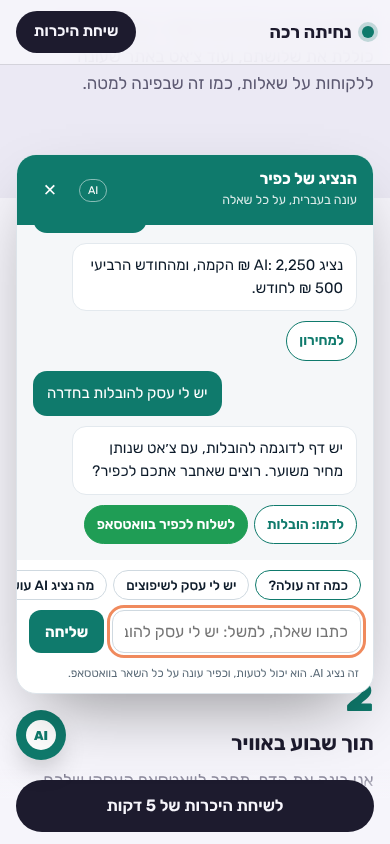
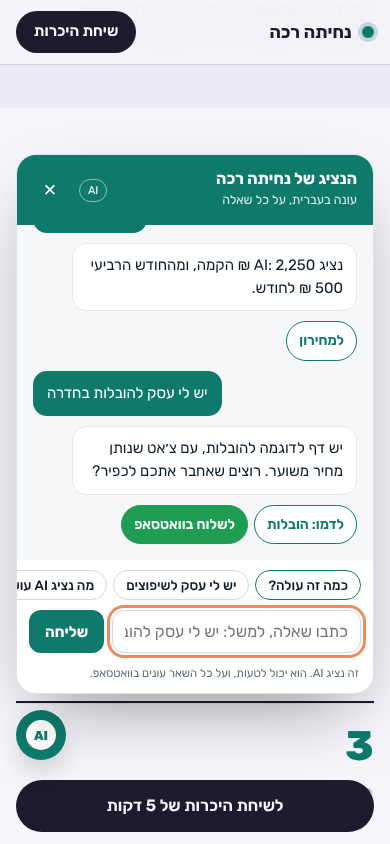
Speak as the brand: remove Kfir's name and first-person voice from the site
- the demo bars, the AI chat (UI, scripted answers and the system
  prompt), the home page, /all/ and the WhatsApp prefills no longer name
  a person; the chat is told never to name one
- the studio's first-person lines become "אנחנו" (wording otherwise
  unchanged); fictional demo businesses still speak as their owners
- CLAUDE.md: a house rule so it stays that way

Claude-Session: https://claude.ai/code/session_015xjAbCv1XzzFKiqgGekPPt

diff --git a/demos/index.html b/demos/index.html
@@ -327,7 +327,7 @@ img, svg { display: block; }
       <div class="sec-head reveal">
         <p class="kicker">מה מקבלים</p>
         <h2 id="t-what">אתר, מענה אוטומטי בוואטסאפ, ומעקב אחרי כל פנייה.</h2>
-        <p class="sec-sub">לקוח פונה, מקבל תשובה מיד, ואתם יודעים בדיוק למי לחזור. אני מקים ומחבר הכול, ואתם ממשיכים לעבוד.</p>
+        <p class="sec-sub">לקוח פונה, מקבל תשובה מיד, ואתם יודעים בדיוק למי לחזור. אנחנו מקימים ומחברים הכול, ואתם ממשיכים לעבוד.</p>
       </div>
       <ol class="parts">
         <li class="part reveal">
@@ -360,8 +360,8 @@ img, svg { display: block; }
         <h2 id="t-how">משיחה של 5 דקות ועד הפנייה הראשונה.</h2>
       </div>
       <ol class="steps">
-        <li class="step reveal"><span class="step-n">1</span><h3>שיחה של 5 דקות</h3><p>מספרים לי על העסק, על הלקוחות ועל השאלות שחוזרות.</p></li>
-        <li class="step reveal"><span class="step-n">2</span><h3>תוך שבוע באוויר</h3><p>אני בונה את הדף, מחבר לוואטסאפ העסקי שלכם ובודק איתכם מהטלפון. נציג AI: עד שבועיים.</p></li>
+        <li class="step reveal"><span class="step-n">1</span><h3>שיחה של 5 דקות</h3><p>מספרים לנו על העסק, על הלקוחות ועל השאלות שחוזרות.</p></li>
+        <li class="step reveal"><span class="step-n">2</span><h3>תוך שבוע באוויר</h3><p>אנחנו בונים את הדף, מחברים לוואטסאפ העסקי שלכם ובודקים איתכם מהטלפון. נציג AI: עד שבועיים.</p></li>
         <li class="step reveal"><span class="step-n">3</span><h3>מעקב כל חודש</h3><p>דוח קצר: כמה פניות נכנסו ומאיפה. שינוי אחד בחודש כלול.</p></li>
       </ol>
       <p class="sec-cta reveal"><a class="btn" href="#contact">לשיחת היכרות של 5 דקות</a></p>
@@ -441,7 +441,7 @@ img, svg { display: block; }
         <h2 id="t-faq">מה ששואלים אותי הכי הרבה.</h2>
       </div>
       <div class="faq reveal">
-        <details><summary>צריך להבין בטכנולוגיה?</summary><p>לא. אתם עונים על כמה שאלות בשיחה, ואני מקים, מחבר ובודק הכול.</p></details>
+        <details><summary>צריך להבין בטכנולוגיה?</summary><p>לא. אתם עונים על כמה שאלות בשיחה, ואנחנו מקימים, מחברים ובודקים הכול.</p></details>
         <details><summary>יש התחייבות?</summary><p>לא. מבטלים בהודעה של 30 יום מראש. מי שבחר בתשלומים ומבטל לפני התשלום השלישי משלים את יתרת ההקמה.</p></details>
         <details><summary>על שם מי הדומיין?</summary><p>על שמכם. הדומיין והאחסון רשומים אצלכם, והדף נשאר שלכם.</p></details>
         <details><summary>ההודעות יוצאות מהמספר שלי?</summary><p>כן. מהמספר העסקי שלכם, דרך החיבור הרשמי של WhatsApp. את נוסח ההודעה כותבים יחד.</p></details>
@@ -455,7 +455,7 @@ img, svg { display: block; }
       <div class="reveal">
         <p class="kicker">שיחת היכרות</p>
         <h2 id="t-contact">רוצים לראות איך זה ייראה אצלכם?</h2>
-        <p class="sec-sub">משאירים שלושה פרטים, והם מגיעים אליי בוואטסאפ. אחזור אליכם לשיחה של 5 דקות, בלי התחייבות.</p>
+        <p class="sec-sub">משאירים שלושה פרטים, והם מגיעים אלינו בוואטסאפ. נחזור אליכם לשיחה של 5 דקות, בלי התחייבות.</p>
       </div>
       <form class="form reveal" id="lead" novalidate>
         <div class="field"><label for="f-name">שם</label><input id="f-name" name="name" type="text" autocomplete="name" placeholder="איך קוראים לכם"></div>
@@ -464,7 +464,7 @@ img, svg { display: block; }
         <div class="form-foot"><button class="btn" type="submit">לקבוע שיחת היכרות</button><span class="fdots" aria-hidden="true"><i></i><i></i><i></i></span></div>
         <p class="form-msg" id="lead-msg" role="status" aria-live="polite"></p>
       </form>
-      <footer class="foot"><span>נחיתה רכה · אתרים שבונים עסקים · כפיר</span><span>העסקים בדוגמאות הם עסקים בדויים.</span></footer>
+      <footer class="foot"><span>נחיתה רכה · אתרים שבונים עסקים</span><span>העסקים בדוגמאות הם עסקים בדויים.</span></footer>
     </div>
   </section>
 </main>
@@ -522,7 +522,7 @@ img, svg { display: block; }
   } else $$('.reveal').forEach((el) => el.classList.add('on'));
 
   /* ---- plan buttons open WhatsApp with the plan named ---- */
-  $$('[data-wa]').forEach((a) => { a.href = 'https://wa.me/' + WA + '?text=' + encodeURIComponent('היי כפיר, ראיתי את המחירון ואשמח לשמוע על חבילת ' + a.dataset.plan + '.'); a.target = '_blank'; a.rel = 'noopener'; });
+  $$('[data-wa]').forEach((a) => { a.href = 'https://wa.me/' + WA + '?text=' + encodeURIComponent('היי, ראיתי את המחירון ואשמח לשמוע על חבילת ' + a.dataset.plan + '.'); a.target = '_blank'; a.rel = 'noopener'; });
 
   /* ---- phone dock: after the first screen, until the form ---- */
   if ('IntersectionObserver' in window) { const dock = $('.dock'), seen = { hero: true, contact: false };
@@ -536,10 +536,10 @@ img, svg { display: block; }
   inputs.forEach((el) => el.addEventListener('input', () => { check(); msg.textContent = ''; }));
   form.addEventListener('submit', (e) => { e.preventDefault(); const res = check(), bad = res.indexOf(false);
     if (bad > -1) { msg.textContent = ['חסר שם.', 'חסר מספר טלפון תקין.', 'חסר תחום העסק.'][bad]; inputs[bad].focus(); return; }
-    const text = `היי כפיר, הגעתי מהאתר ואשמח לשיחת היכרות של 5 דקות.\nשם: ${inputs[0].value.trim()}\nטלפון: ${inputs[1].value.trim()}\nתחום העסק: ${inputs[2].value.trim()}`;
+    const text = `היי, הגעתי מהאתר ואשמח לשיחת היכרות של 5 דקות.\nשם: ${inputs[0].value.trim()}\nטלפון: ${inputs[1].value.trim()}\nתחום העסק: ${inputs[2].value.trim()}`;
     msg.textContent = 'פותחים וואטסאפ עם הפרטים. לחצו שם על שליחה.';
     window.open('https://wa.me/' + WA + '?text=' + encodeURIComponent(text), '_blank', 'noopener');
-    /* the same details also go to כפיר's own lead table, so a follow-up reminder comes if nobody answered */
+    /* the same details also go to the site's own lead table, so a follow-up reminder comes if nobody answered */
     if (window.LeadForm) LeadForm.send('/api/lead/kfir', { name: inputs[0].value.trim(), phone: inputs[1].value.trim(), service: 'שיחת היכרות', message: 'תחום העסק: ' + inputs[2].value.trim() }); });
 })();
 </script>

diff --git a/demos/shared/aibot.js b/demos/shared/aibot.js
@@ -73,12 +73,12 @@
     if (/התחייב|לבטל|דומיין|על שם/.test(t))
       return "אין התחייבות. התשלום מתחדש כל חודש ואפשר להפסיק בהודעה של 30 יום. הדומיין והאחסון רשומים על שמכם ונשארים שלכם, והמענה האוטומטי והנציג פועלים כל עוד יש תשלום חודשי.";
     if (/דבר|שיחה|כפיר|וואטסאפ|טלפון|רוצה|מעוניין|מעוניינת|להתחיל/.test(t))
-      return "בשמחה. לחצו כאן, וההודעה תגיע לכפיר בוואטסאפ עם מה שכבר סיפרתם. [[whatsapp:" + summary(history) + "]]";
-    return "אני יכול לספר על החבילות והמחירים, להראות דף לדוגמה לתחום שלכם, או להעביר אתכם לכפיר בוואטסאפ. מה מעניין אתכם?";
+      return "בשמחה. לחצו כאן, וההודעה תגיע אלינו בוואטסאפ עם מה שכבר סיפרתם. [[whatsapp:" + summary(history) + "]]";
+    return "אני יכול לספר על החבילות והמחירים, להראות דף לדוגמה לתחום שלכם, או להעביר אתכם לשיחה בוואטסאפ. מה מעניין אתכם?";
   }
   function summary(history) {
     const said = history.filter((m) => m.role === "user").map((m) => m.content).slice(-3).join(" · ");
-    return ("היי כפיר, הגעתי מהאתר. " + said).slice(0, 400);
+    return ("היי, הגעתי מהאתר. " + said).slice(0, 400);
   }
 
   const AiBot = {
@@ -90,7 +90,7 @@
       launch.append(el("span", "ab-spark", "AI"), el("span", "ab-label", cfg.launcher || "שאלו את הנציג החכם"));
       const panel = el("section", "ab-panel"); panel.setAttribute("role", "dialog"); panel.setAttribute("aria-label", "נציג חכם");
       const head = el("div", "ab-head");
-      const meta = el("div"); meta.append(el("b", null, cfg.name || "הנציג של כפיר"), el("small", null, cfg.subtitle || "עונה בעברית, על כל שאלה"));
+      const meta = el("div"); meta.append(el("b", null, cfg.name || "הנציג של נחיתה רכה"), el("small", null, cfg.subtitle || "עונה בעברית, על כל שאלה"));
       const mode = el("span", "ab-mode", "AI");
       const x = el("button", "ab-x", "×"); x.type = "button"; x.setAttribute("aria-label", "סגירה");
       head.append(meta, mode, x);
@@ -101,12 +101,12 @@
       const input = el("input"); input.placeholder = cfg.placeholder || "כתבו שאלה, למשל: יש לי עסק להובלות"; input.setAttribute("aria-label", "השאלה שלכם"); input.maxLength = 600; input.autocomplete = "off";
       const send = el("button", null, "שליחה"); send.type = "submit";
       form.append(input, send);
-      const note = el("div", "ab-note", cfg.note || "זה נציג AI. הוא יכול לטעות, וכפיר עונה על כל השאר בוואטסאפ.");
+      const note = el("div", "ab-note", cfg.note || "זה נציג AI. הוא יכול לטעות, ועל כל השאר עונים בוואטסאפ.");
       panel.append(head, body, chips, form, note);
       document.body.append(launch, panel);
 
       const history = []; let busy = false, started = false, offline = false;
-      (cfg.chips || ["כמה זה עולה?", "יש לי עסק לשיפוצים", "מה נציג AI עושה?", "איך זה עובד?", "אני רוצה לדבר עם כפיר"]).forEach((q) => {
+      (cfg.chips || ["כמה זה עולה?", "יש לי עסק לשיפוצים", "מה נציג AI עושה?", "איך זה עובד?", "אני רוצה שיחת היכרות"]).forEach((q) => {
         const b = el("button", null, q); b.type = "button"; b.addEventListener("click", () => ask(q)); chips.appendChild(b);
       });
 
@@ -120,7 +120,7 @@
           let a;
           if (kind === "demo" && DEMOS[arg]) { a = el("a", null, "לדמו: " + DEMOS[arg]); a.href = (cfg.base || "") + arg + "/"; }
           else if (kind === "pricing") { a = el("a", null, "למחירון"); a.href = cfg.pricingHref || "#pricing"; a.addEventListener("click", close); }
-          else if (kind === "whatsapp") { a = el("a", "wa", cfg.waLabel || "לשלוח לכפיר בוואטסאפ"); a.href = "https://wa.me/" + cfg.whatsapp + "?text=" + encodeURIComponent(arg || summary(history)); a.target = "_blank"; a.rel = "noopener"; }
+          else if (kind === "whatsapp") { a = el("a", "wa", cfg.waLabel || "לשלוח בוואטסאפ"); a.href = "https://wa.me/" + cfg.whatsapp + "?text=" + encodeURIComponent(arg || summary(history)); a.target = "_blank"; a.rel = "noopener"; }
           if (a) row.appendChild(a);
         });
         if (row.children.length) { body.insertBefore(row, typing); body.scrollTop = body.scrollHeight; }
@@ -144,7 +144,7 @@
           } catch (e) { goOffline(); }
         }
         if (!reply) { await new Promise((res) => setTimeout(res, 500)); reply = cfg.offline ? cfg.offline + " [[whatsapp:" + text + "]]"
-          // A business's own chat (endpoint set) must never fall back to כפיר's sales script.
+          // A business's own chat (endpoint set) must never fall back to the sales script above.
           : cfg.endpoint ? "כרגע אני לא זמין. אפשר לשלוח את השאלה בוואטסאפ, ונחזור אליכם. [[whatsapp:" + text + "]]"
           : scripted(text, history); }
         typing.classList.remove("on");
@@ -155,7 +155,7 @@
 
       function open() {
         panel.classList.add("open"); launch.setAttribute("aria-expanded", "true");
-        if (!started) { started = true; render(cfg.greet || "היי, אני הנציג החכם של כפיר. אפשר לשאול אותי כל דבר על דפי נחיתה, וואטסאפ אוטומטי ונציג AI לעסק שלכם. ככה בדיוק ייראה נציג באתר שלכם."); }
+        if (!started) { started = true; render(cfg.greet || "היי, אני הנציג החכם של נחיתה רכה. אפשר לשאול אותי כל דבר על דפי נחיתה, וואטסאפ אוטומטי ונציג AI לעסק שלכם. ככה בדיוק ייראה נציג באתר שלכם."); }
         input.focus();
       }
       function close() { panel.classList.remove("open"); launch.setAttribute("aria-expanded", "false"); }

diff --git a/demos/all/index.html b/demos/all/index.html
@@ -198,7 +198,7 @@
       <div class="demo-card">
         <div>
           <h2>לראות לפני שמחליטים</h2>
-          <p>בניתי דף לעסק בדוי של טכנאי מזגנים. ממלאים את הטופס עם השם שלכם, ורואים בדיוק מה הלקוח שלכם יקבל בוואטסאפ, ומה קורה מאחורי הקלעים.</p>
+          <p>דף לעסק בדוי של טכנאי מזגנים. ממלאים את הטופס עם השם שלכם, ורואים בדיוק מה הלקוח שלכם יקבל בוואטסאפ, ומה קורה מאחורי הקלעים.</p>
           <div class="cta-row" style="justify-content:flex-start">
             <a class="btn btn-primary" href="../leads-demo/">דמו מערכת לידים</a>
             <a class="btn btn-outline-light" href="../ai-agent/">דמו נציג AI</a>
@@ -242,7 +242,7 @@
   <section class="block alt">
     <div class="wrap">
       <h2>איך זה עובד</h2>
-      <p class="sub">אתם עוסקים בעסק. אני דואג לשאר.</p>
+      <p class="sub">אתם עוסקים בעסק. אנחנו דואגים לשאר.</p>
       <div class="steps">
         <div class="step"><h3>שיחה של 5 דקות</h3><p>מה העסק עושה, מי הלקוחות, ומה הם שואלים הכי הרבה.</p></div>
         <div class="step"><h3>תוך שבוע באוויר</h3><p>דף, חיבור לוואטסאפ ובדיקה מלאה מהטלפון שלכם.</p></div>
@@ -256,7 +256,7 @@
     <div class="wrap">
       <h2>שאלות נפוצות</h2>
       <p class="sub">בקצרה.</p>
-      <details><summary>צריך להבין בטכנולוגיה?</summary><p>לא. אתם עונים על כמה שאלות בשיחה, ואני מקים, מחבר ובודק הכל.</p></details>
+      <details><summary>צריך להבין בטכנולוגיה?</summary><p>לא. אתם עונים על כמה שאלות בשיחה, ואנחנו מקימים, מחברים ובודקים הכול.</p></details>
       <details><summary>על שם מי הדומיין והדף?</summary><p>על שמכם. אם תחליטו להפסיק, הדומיין נשאר אצלכם.</p></details>
       <details><summary>יש התחייבות?</summary><p>אין. התשלום החודשי מתחדש כל חודש, ואפשר להפסיק בהודעה מראש של 30 יום.</p></details>
       <details><summary>ההודעות בוואטסאפ יוצאות מהמספר שלי?</summary><p>מהמספר העסקי שלכם, דרך החיבור הרשמי של WhatsApp. את נוסח ההודעה אנחנו כותבים יחד.</p></details>
@@ -274,25 +274,21 @@
 
 </main>
 
-  <footer class="wrap"><a href="../">נחיתה רכה</a> · אתרים שבונים עסקים · כפיר</footer>
+  <footer class="wrap"><a href="../">נחיתה רכה</a> · אתרים שבונים עסקים</footer>
 
   <script>
     // Contact settings. whatsappNumber in international format without "+", e.g. 972501234567.
     const CONFIG = {
-      ownerName: "כפיר",
       whatsappNumber: "972526359513",
     };
 
-    document.querySelectorAll("[data-owner-name-plain]").forEach((el) => { el.textContent = CONFIG.ownerName; });
-    const brand = document.querySelector("[data-owner-name]");
-    if (brand) brand.firstChild.textContent = CONFIG.ownerName;
 
     if (CONFIG.whatsappNumber) {
       document.querySelectorAll("[data-wa]").forEach((a) => {
         const plan = a.dataset.plan;
         const text = plan
-          ? "היי " + CONFIG.ownerName + ", ראיתי את המחירון. אשמח לשמוע על חבילת " + plan + "."
-          : "היי " + CONFIG.ownerName + ", ראיתי את הדמו ואשמח לשמוע עוד.";
+          ? "היי, ראיתי את המחירון. אשמח לשמוע על חבילת " + plan + "."
+          : "היי, ראיתי את הדמואים ואשמח לשמוע עוד.";
         a.href = "https://wa.me/" + CONFIG.whatsappNumber + "?text=" + encodeURIComponent(text);
         a.target = "_blank";
         a.rel = "noopener";

diff --git a/demos/movers/index.html b/demos/movers/index.html
@@ -140,7 +140,7 @@
 </style>
 </head>
 <body>
-<div class="demo">דמו · העסק בדוי. ההודעה בוואטסאפ תגיע לכפיר, שבנה את הדף. אצלכם היא תגיע אליכם. <a href="../">לכל הדמואים</a></div>
+<div class="demo">דמו · העסק בדוי. כאן ההודעה בוואטסאפ מגיעה אלינו. אצלכם היא תגיע אליכם. <a href="../">לכל הדמואים</a></div>
 
 <header class="hero">
   <div class="wrap bar"><div class="logo" data-edit="name">דרור הובלות</div><a href="#" data-wa="היי דרור, אני צריך הצעת מחיר להובלה.">וואטסאפ</a></div>

diff --git a/demos/handyman/index.html b/demos/handyman/index.html
@@ -221,7 +221,7 @@
 </style>
 </head>
 <body>
-<div class="demo">דמו · העסק בדוי. ההודעה בוואטסאפ תגיע לכפיר, שבנה את הדף. אצלכם היא תגיע אליכם. <a href="../">לכל הדמואים</a></div>
+<div class="demo">דמו · העסק בדוי. כאן ההודעה בוואטסאפ מגיעה אלינו. אצלכם היא תגיע אליכם. <a href="../">לכל הדמואים</a></div>
 
 <!-- shared tool drawings, used by the pegboard -->
 <svg width="0" height="0" style="position:absolute" aria-hidden="true" focusable="false">

diff --git a/demos/psychologist/index.html b/demos/psychologist/index.html
@@ -178,7 +178,7 @@
 </style>
 </head>
 <body>
-<div class="demo">דמו · העסק בדוי. ההודעה בוואטסאפ תגיע לכפיר, שבנה את הדף. אצלכם היא תגיע אליכם. <a href="../">לכל הדמואים</a></div>
+<div class="demo">דמו · העסק בדוי. כאן ההודעה בוואטסאפ מגיעה אלינו. אצלכם היא תגיע אליכם. <a href="../">לכל הדמואים</a></div>
 
 <header class="hero">
   <div class="light" aria-hidden="true"><i></i><i></i><i></i><i></i></div>

diff --git a/demos/cleaning/index.html b/demos/cleaning/index.html
@@ -133,7 +133,7 @@
 </style>
 </head>
 <body>
-<div class="demo">דמו · העסק בדוי. ההודעה בוואטסאפ תגיע לכפיר, שבנה את הדף. אצלכם היא תגיע אליכם. <a href="../">לכל הדמואים</a></div>
+<div class="demo">דמו · העסק בדוי. כאן ההודעה בוואטסאפ מגיעה אלינו. אצלכם היא תגיע אליכם. <a href="../">לכל הדמואים</a></div>
 
 <svg width="0" height="0" style="position:absolute" aria-hidden="true">
   <defs>

diff --git a/demos/tutor/index.html b/demos/tutor/index.html
@@ -194,7 +194,7 @@
 </style>
 </head>
 <body>
-<div class="demo">דמו · העסק בדוי. ההודעה בוואטסאפ תגיע לכפיר, שבנה את הדף. אצלכם היא תגיע אליכם. <a href="../">לכל הדמואים</a></div>
+<div class="demo">דמו · העסק בדוי. כאן ההודעה בוואטסאפ מגיעה אלינו. אצלכם היא תגיע אליכם. <a href="../">לכל הדמואים</a></div>
 
 <header class="hero squares">
   <div class="wrap">

diff --git a/demos/plumber/index.html b/demos/plumber/index.html
@@ -158,7 +158,7 @@
 </style>
 </head>
 <body>
-<div class="demo">דמו · העסק בדוי. ההודעה בוואטסאפ תגיע לכפיר, שבנה את הדף. אצלכם היא תגיע אליכם. <a href="../">לכל הדמואים</a></div>
+<div class="demo">דמו · העסק בדוי. כאן ההודעה בוואטסאפ מגיעה אלינו. אצלכם היא תגיע אליכם. <a href="../">לכל הדמואים</a></div>
 
 <header class="hero">
   <div class="wrap bar">

diff --git a/demos/ac/index.html b/demos/ac/index.html
@@ -143,7 +143,7 @@
 </style>
 </head>
 <body>
-<div class="demo">דמו · העסק בדוי. ההודעה בוואטסאפ תגיע לכפיר, שבנה את הדף. אצלכם היא תגיע אליכם. <a href="../">לכל הדמואים</a></div>
+<div class="demo">דמו · העסק בדוי. כאן ההודעה בוואטסאפ מגיעה אלינו. אצלכם היא תגיע אליכם. <a href="../">לכל הדמואים</a></div>
 
 <header class="hero">
   <div class="wrap">

diff --git a/demos/appliance/index.html b/demos/appliance/index.html
@@ -214,7 +214,7 @@
 </style>
 </head>
 <body>
-<div class="demo">דמו · העסק בדוי. ההודעה בוואטסאפ תגיע לכפיר, שבנה את הדף. אצלכם היא תגיע אליכם. <a href="../">לכל הדמואים</a></div>
+<div class="demo">דמו · העסק בדוי. כאן ההודעה בוואטסאפ מגיעה אלינו. אצלכם היא תגיע אליכם. <a href="../">לכל הדמואים</a></div>
 
 <header class="hero">
   <div class="wrap">

diff --git a/demos/electrician/index.html b/demos/electrician/index.html
@@ -154,7 +154,7 @@
 </style>
 </head>
 <body>
-<div class="demo">דמו · העסק בדוי. ההודעה בוואטסאפ תגיע לכפיר, שבנה את הדף. אצלכם היא תגיע אליכם. <a href="../">לכל הדמואים</a></div>
+<div class="demo">דמו · העסק בדוי. כאן ההודעה בוואטסאפ מגיעה אלינו. אצלכם היא תגיע אליכם. <a href="../">לכל הדמואים</a></div>
 
 <header class="hero">
   <div class="wrap">
